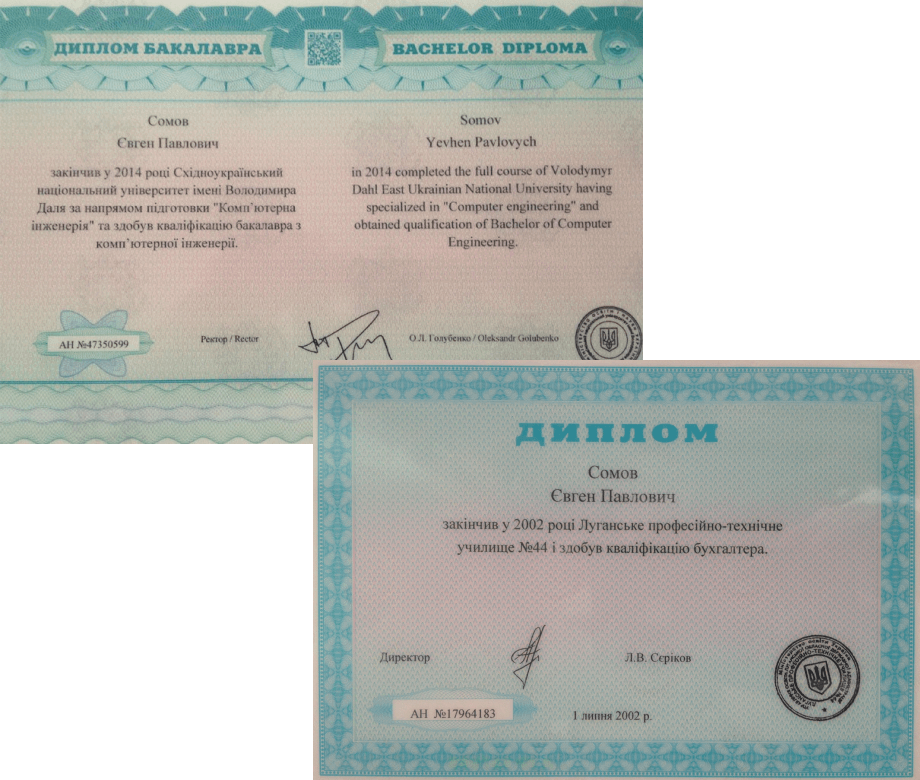
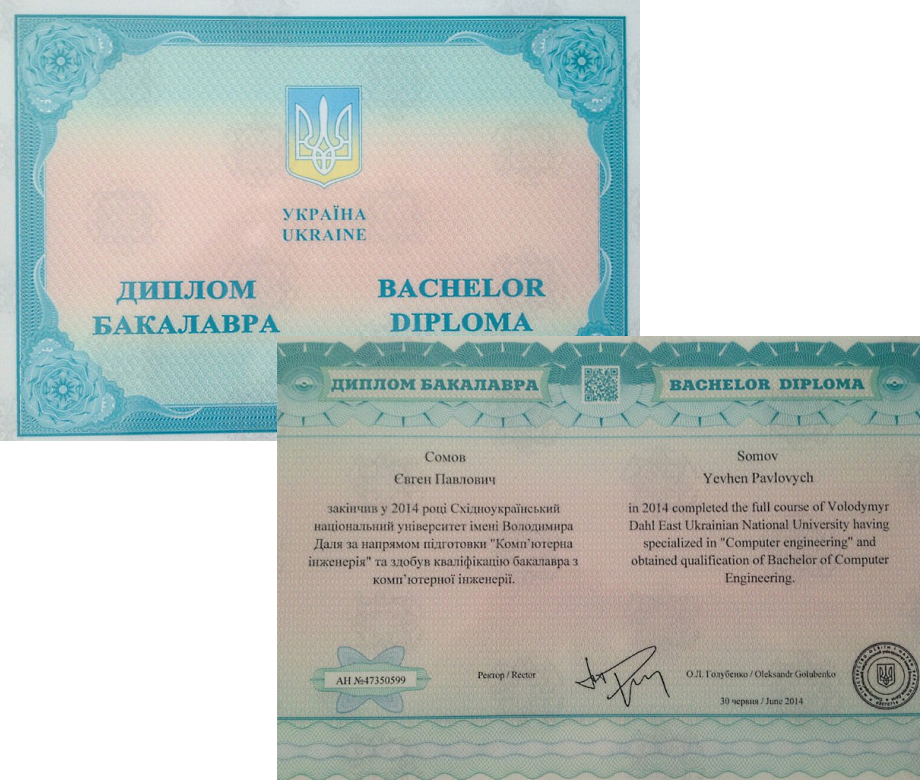
Обновление описания главной страницы

diff --git a/index.html b/index.html
@@ -68,41 +68,6 @@
 					</div>
 					<br>
 					<h3>Навыки:</h3>
-					<div class="block">
-						<h4>Ручное тестирование</h4>
-						<div>
-							<ul>
-								<li>Ручное тестирования мобильных, браузерных и настольных приложений</li>
-								<li>Разработка тестовой документации (чек-листы, тест-кейсы)</li>
-								<li>Создание методик тестирования и тестовых наборов</li>
-								<li>Разработка отчетов и тестирования в системе Jira (Zephyr)</li>
-								<li>Работа с технической документацией (ТЗ, GDD)</li>
-								<li>Планирование и оптимизация процесса тестирования</li>
-								<li>Контроль выполнения всех пунктов технического задания</li>
-								<li>Проверка требований к продукту и оценка рисков</li>
-								<li>Контроль качества продукта, поиск багов.</li>
-								<li>Контроль исправления найденных ошибок</li>
-								<li>Валидация кода - просмотр кода на наличие очевидных ошибок (W3C)</li>
-								<li>Взаимодействие со всеми участниками проекта</li>
-								<br>
-								<li>Тестирование верстки с помощью плагина Perfect Pixel на основании макета из Figma</li>
-								<li>Тестирование трафика входящих и исходящих данных (Fiddler, Charles, Wireshark)</li>
-								<li>Анализ стайта с помощью: Screaming Frog SEO Spider, SiteAnalyzer</li>
-								<li>Проверка безопасности Web приложений с помощью OWASP ZAP</li>
-								<li>Нагрузочное тестирование с помощью JMeter, Gatling</li>
-								<li>Тестирование API с помощью Postman, Advanced REST client</li>
-								<br>
-								<li>Работа в баг-трекере: Jira, Redmine</li>
-								<li>Работа в менеджере тест-кейсов: Zephyr (Jira), Klaros</li>
-								<li>Работа в системах управления базами данных: SQL Server, MySQL</li>
-								<li>Работа в операционных системах Windows, Linux\Unix, Mac OS</li>
-							</ul>
-						</div>
-					</div>
-					<br>
-					<div class="block">
-						<b>Уровень английского языка:</b> Pre-Intermediate.
-					</div>
 				</p>
 			</div></div>
 			<div class="content-right"><div class="block">
@@ -120,32 +85,88 @@
 				<form action="./pdf/resume-somov-qa.pdf" target="_blank">
 				<input type="submit" value="Скачать резюме" class="button">
 				</form>
-				<br><br><br>
-				<h4>Автоматизированное тестирование</h4>
-						<div>
-							<ul>
-								<li>Автоматизация тестирования Web, Mobile, Native, Desktop приложений</li>
-								<li>Применение паттернов PageObject и StepsObject в разработке автотестов</li>
-								<li>Основные технологии автоматизации: Selenium, Appium (UiAutomator)</li>
-								<li>Фреймворки: Codeception, Selenide, Cucumber, WebdriverIO, Robot</li>
-								<li>Модульное тестирование: JUnit, TestNG, PHPUnit, NUnit</li>
-								<li>Комплексные инструменты: Katalon Studio, TestComplete</li>
-								<li>Разработка интегрированных автотестов в Unity 3D (Test Runner)</li>
-								<li>Дополнительно: AirTest Project, WinAppDriver, Xamarin.UITest</li>
-								<li>Android Debug Bridge для автоматизации процессов тестирования</li>
-								<li>Разработка SQL запросов для тестирование серверных данных</li>
-								<li>Тестирование API с помощью REST запросов</li>
-								<li>Интеграция автотестов в Jenkins, TeamCity, GitLab Runner CI/CD</li>
-								<li>Использование систем контроля версий Git в разработке автотестов</li>
-								<li>Знание языков программирования: PHP, JavaScript, Java, Python, C#</li>
-							</ul>
-						</div>
-						<br>
 			</div></div>
 		</div>
 
 		<div class="content">
-			<h2 class="title-black">Опыт работы со следующими технологиями </h2>
+			<div class="content-left"><div class="block">
+				<div class="block">
+					<h4>Ручное тестирование</h4>
+					<div>
+						<ul>
+							<li>Ручное тестирования мобильных, браузерных и настольных приложений</li>
+							<li>Разработка тестовой документации (чек-листы, тест-кейсы)</li>
+							<li>Создание методик тестирования и тестовых наборов</li>
+							<li>Разработка отчетов и тестирования в системе Jira (Zephyr)</li>
+							<li>Тестирование технической документации (ТЗ, GDD)</li>
+							<li>Планирование и оптимизация процесса тестирования</li>
+							<li>Контроль выполнения всех пунктов технического задания</li>
+							<li>Проверка требований к продукту и оценка рисков</li>
+							<li>Контроль качества продукта - поиск багов.</li>
+							<li>Контроль исправления найденных ошибок</li>
+							<li>Валидация кода - просмотр кода на наличие очевидных ошибок (W3C)</li>
+							<br>
+							<li>Тестирование верстки с помощью плагина Perfect Pixel на основании макета из Figma</li>
+							<li>Тестирование трафика входящих и исходящих данных (Fiddler, Charles, Wireshark)</li>
+							<li>Анализ сайта с помощью: Screaming Frog SEO Spider, SiteAnalyzer</li>
+							<li>Проверка безопасности Web приложений с помощью OWASP ZAP</li>
+							<li>Нагрузочное тестирование с помощью JMeter, Gatling</li>
+							<li>Тестирование API с помощью Postman, Advanced REST client</li>
+							<li>Тестирование баз данных используя SQL запросы</li>
+							<br>
+							<li>Работа в баг-трекере: Jira, Redmine</li>
+							<li>Работа в менеджере тест-кейсов: Zephyr (Jira), Klaros</li>
+							<li>Работа в системах управления базами данных: SQL Server, MySQL</li>
+							<li>Работа в операционных системах Windows, Linux\Unix, Mac OS</li>
+						</ul>
+					</div>
+				</div>
+				<br>
+				<div class="block">
+					<b>Уровень английского языка:</b> Pre-Intermediate.
+				</div>
+			</div></div>
+			<div class="content-right"><div class="block">
+				<h4>Автоматизированное тестирование</h4>
+					<div>
+						<ul>
+							<li>Автоматизация тестирования Web, Mobile (Native/Web) приложений</li>
+							<li>Разработка автотестов через паттерны PageObject и StepsObject</li>
+							<li>Основные технологии автоматизации: Selenium, Appium</li>
+							<li>Модульное тестирование: JUnit, TestNG, PHPUnit, NUnit</li>
+							<li>Фреймворки: Codeception, Selenide, Cucumber, WebdriverIO, Robot</li>
+							<br>
+							<li>Стеки автоматизации тестирования Web приложений:<br>
+								<ul>
+									<li>Selenium + Codeception + PHPUnit (PHP)</li>
+									<li>Selemiun + JUnit/TestNG (Java)</li>
+									<li>Selenide + TestNG (Java)</li>
+									<li>Selenide + Cucumber + TestNG (Java)</li>
+									<li>Selenium + Unittest (Python)</li>
+									<li>Selenium + NodeJS (JavaScript)</li>
+									<li>Robot framework (Python)</li>
+									<li>WebdriverIO (JavaScript)</li>
+								</ul>
+							</li>
+							<br>
+							<li>Стеки автоматизации тестирования Mobile приложений:<br>
+								<ul>
+									<li>Appium + UIAutomator2 + JUnit/TestNG (Java)</li>
+								</ul>
+							</li>
+							<br>
+							<li>Комплексные инструменты: Katalon Studio, TestComplete</li>
+							<li>Дополнительно: AirTest Project, Unity Test Runner, WinAppDriver, Xamarin.UITest</li>
+							<li>Интеграция автотестов в Jenkins, TeamCity, GitLab Runner CI/CD</li>
+							<li>Использование систем контроля версий Git в разработке автотестов</li>
+							<li>Знание языков программирования: PHP, JavaScript, Java, Python, C#</li>
+						</ul>
+					</div>
+			</div></div>
+		</div>
+
+		<div class="content">
+			<h2 class="title-black">Знания программных средств и технологий</h2>
 			<div class="content-left"><div class="block">
 				<h4>Инструменты для тестирования Web/Mobile приложений:</h4>
 				<div class="block">
@@ -297,26 +318,13 @@
 				<h2>Образование</h2>
 				<br>
 				<p>Высшее образование:</p>
-				<ul>
-					<li>
-						Восточноукраинский университет им. В.Даля (бывш. ЛМСИ), Украина, г. Луганск.<br>
-						Факультет: Компьютерных систем и информационных технологий.<br>
-						Направление подготовки: Компьютерная инженерия.<br>
-						Специальность: Компьютерные системы и сети.<br>
-						Степень: Бакалавр (2014 г.) <br>
-					</li>
-				</ul>
 				<br>
-				<p>Специальное образование:</p>
-				<ul>
-					<li>
-						Луганский колледж информационных технологий и предпринимательства (бывш. ПТУ-44), Украина, г. Луганск.<br>
-						Факультет: Бухгалтерский учет.<br>
-						Направление подготовки: Бухгалтерский учет.<br>
-						Специальность: Бухгалтер.<br>
-						Степень: Квалифицированный работник (2002 г.) 
-					</li>
-				</ul>
+				Восточноукраинский университет им. В.Даля (бывш. ЛМСИ), Украина, г. Луганск.<br>
+				Факультет: Компьютерных систем и информационных технологий.<br>
+				Направление подготовки: Компьютерная инженерия.<br>
+				Специальность: Компьютерные системы и сети.<br>
+				Степень: Бакалавр (2014 г.) <br>
+				<br>
 				<br>
 				<p style="font-size: small;">
 					* Более подробная информация об образовании смотрите в разделе <a href="education.html">ПОДРОБНЕЕ &gt;&gt;</a> </p>
